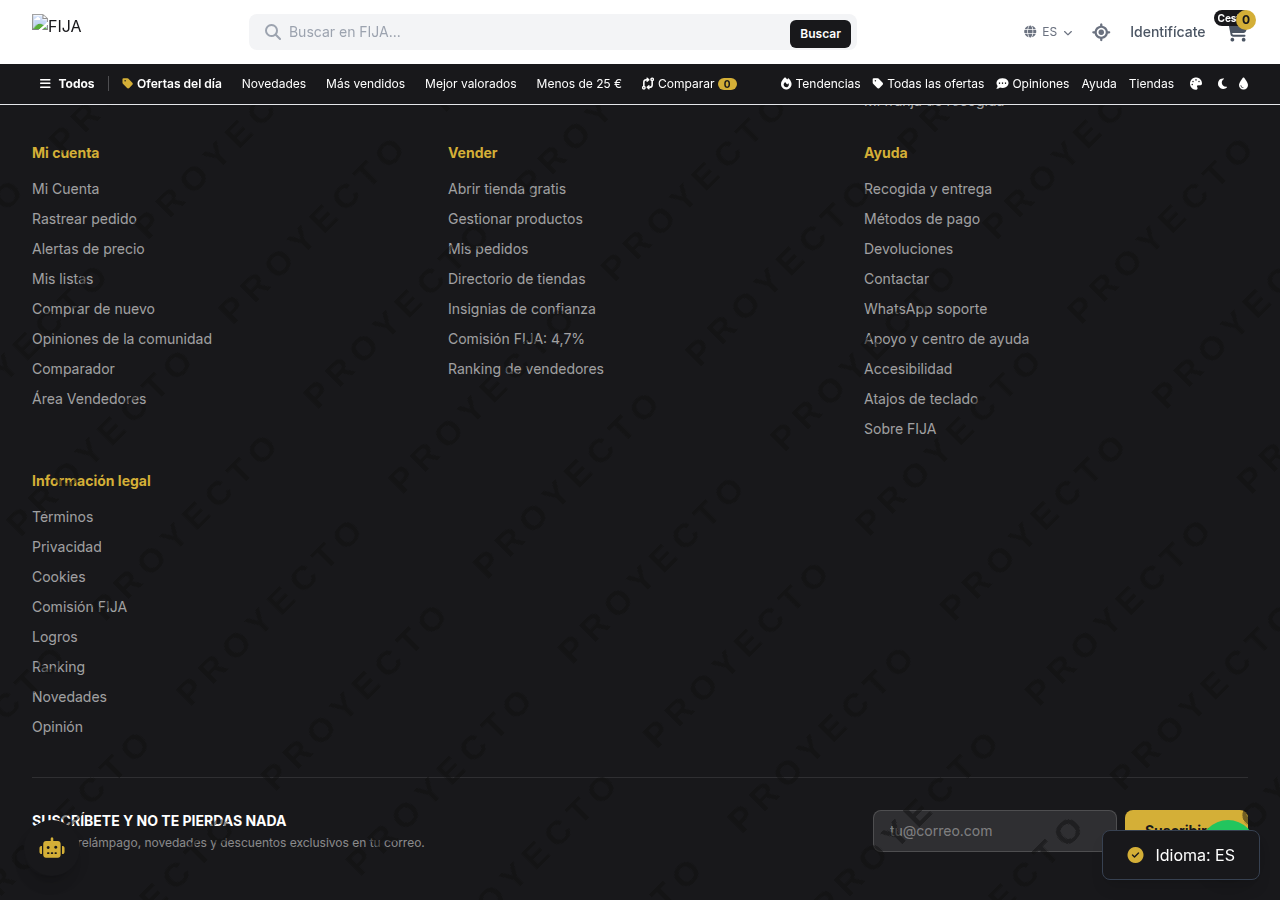
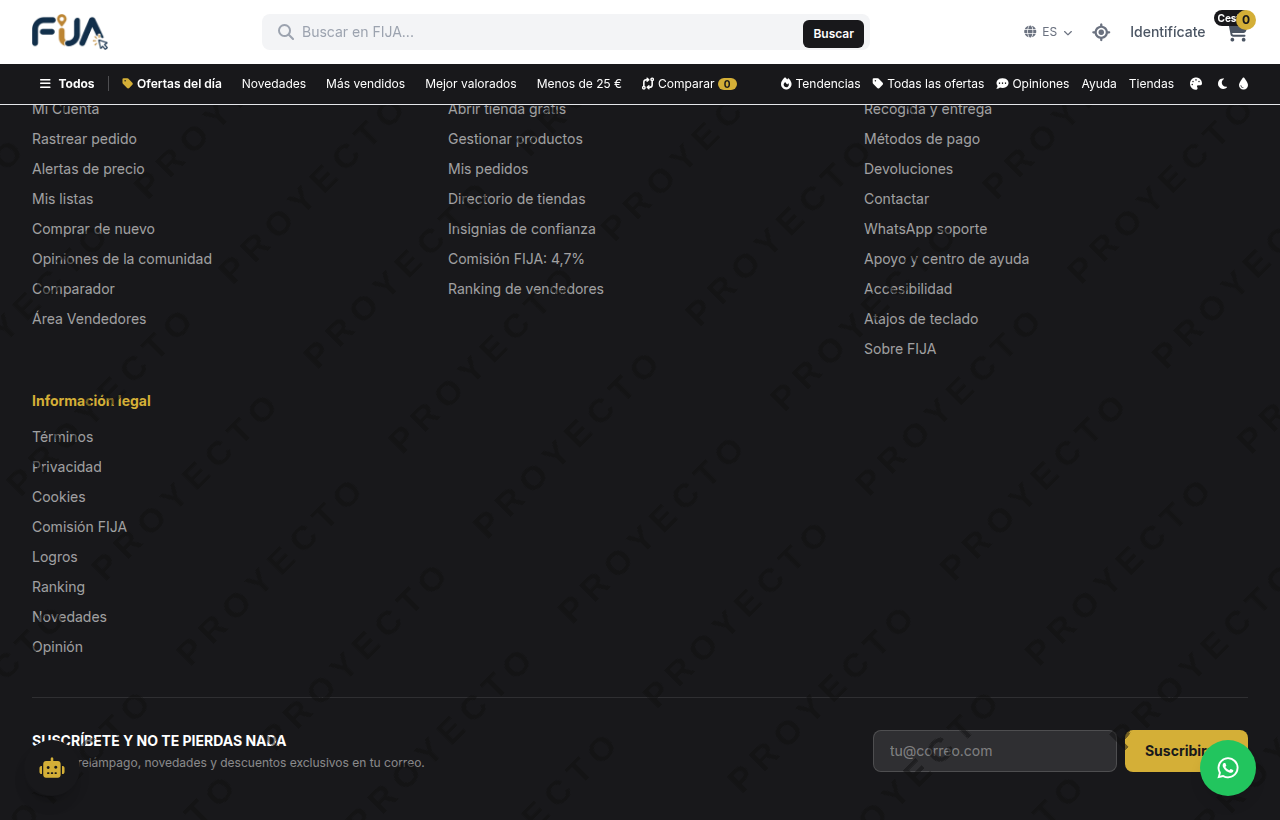
style(footer): rejilla propia de 6 columnas alineadas arriba (la clase lg:grid-cols-7 no existia y rompia la alineacion)

diff --git a/index.html b/index.html
@@ -1035,10 +1035,27 @@
     </main>
 
     <!-- ===================== FOOTER (estilo Amazon) ===================== -->
+    <style>
+        /* Rejilla propia del pie: la clase lg:grid-cols-7 no existe en el CSS compilado,
+           así que en escritorio caía a 3 columnas y la última se iba sola a otra fila.
+           Aquí las columnas quedan siempre alineadas arriba y del mismo ancho. */
+        .fija-foot-grid { display: grid; gap: 2rem 1.5rem; margin-bottom: 2.5rem; grid-template-columns: repeat(2, minmax(0, 1fr)); align-items: start; }
+        .fija-foot-brand { grid-column: 1 / -1; }
+        .fija-foot-grid > div > h4 { margin: 0 0 1rem; line-height: 1.2; }
+        .fija-foot-grid ul { margin: 0; padding: 0; list-style: none; }
+        .fija-foot-grid ul > li > button, .fija-foot-grid ul > li > a { display: inline-block; text-align: left; line-height: 1.45; }
+        @media (min-width: 640px) {
+            .fija-foot-grid { grid-template-columns: repeat(3, minmax(0, 1fr)); }
+        }
+        @media (min-width: 1024px) {
+            .fija-foot-grid { grid-template-columns: 1.6fr repeat(5, minmax(0, 1fr)); gap: 2rem 1.75rem; }
+            .fija-foot-brand { grid-column: auto; }
+        }
+    </style>
     <footer class="bg-fija-900 text-white mt-16">
         <div class="max-w-7xl mx-auto px-4 sm:px-6 lg:px-8 py-12">
-            <div class="grid grid-cols-2 md:grid-cols-3 lg:grid-cols-7 gap-8 mb-10">
-                <div class="col-span-2 lg:col-span-2">
+            <div class="fija-foot-grid">
+                <div class="fija-foot-brand">
                     <img src="logo-white.png" alt="FIJA" class="h-10 w-auto mb-1">
                     <p class="text-sm text-white/60 mt-4 leading-relaxed max-w-xs">El marketplace Click &amp; Collect que conecta compradores con vendedores verificados. Sin intermediarios innecesarios.</p>
                     <div class="flex gap-3 mt-5">
